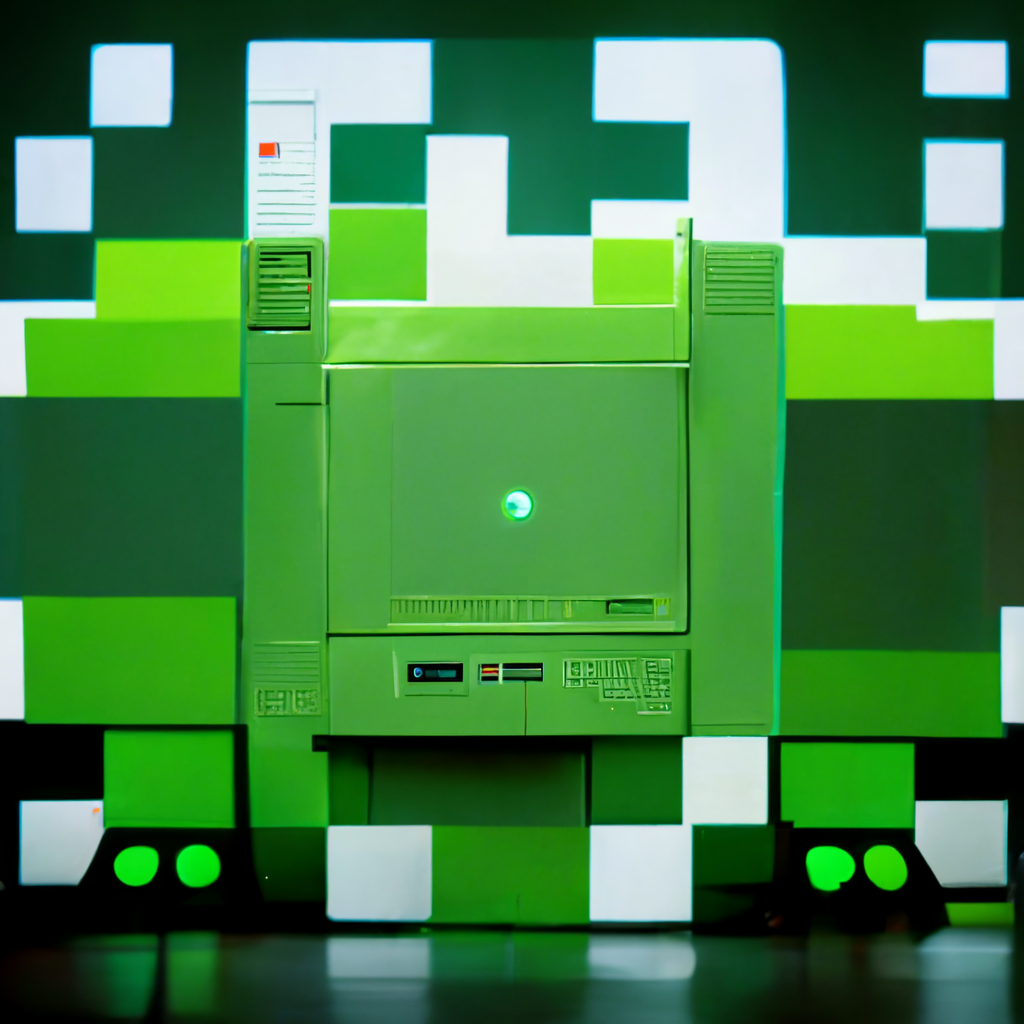
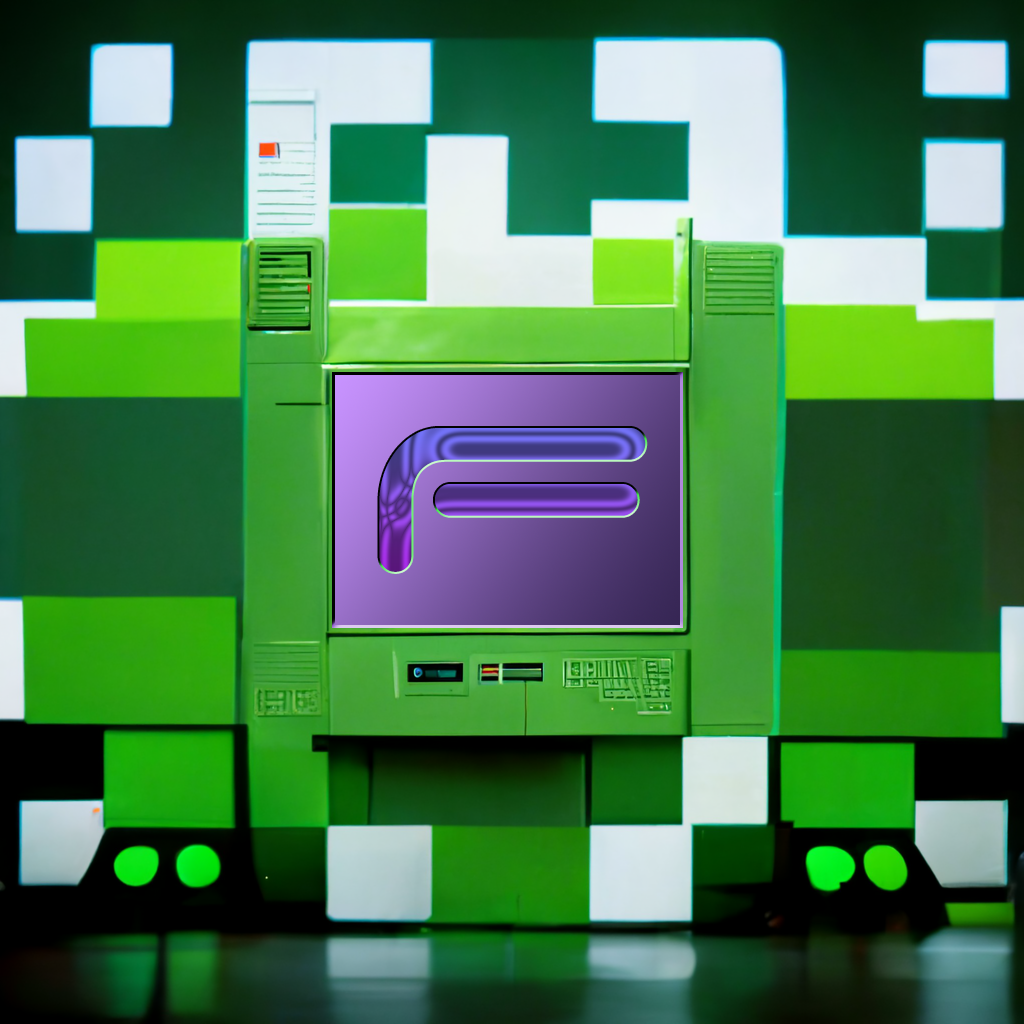
Udate image and readme

Changed region(s): [[0.3125, 0.3438, 0.6875, 0.625]]

diff --git a/README.md b/README.md
@@ -4,7 +4,7 @@ Fismo machines are a way of simulating processes, branching narratives, maps of 
 
 ![Fismo](docs/images/fismo-machine.png)
 
-_Yo dawg, we heard you like machines, so we put this machine in our state machine docs._ This is the machine that you will _clone_ and install your _own_ machines into. Practically _bristling_ with potential, amirite? Incidentally, It was created by another machine, using [Midjourney](https://twitter.com/midjourney). 🤖
+_Yo dawg, we heard you like machines, so we put this machine in our state machine docs._ This is the machine that you will _clone_ and install your _own_ machines into. Practically _bristling_ with potential, amirite? Incidentally, It was created in collaboration with another machine, via [Midjourney](https://twitter.com/midjourney). 🤖
 
 ## 📖 [Documentation](https://docs.fismo.xyz)
 ## 🧪 [Fismology Lab](https://github.com/cliffhall/Fismology)
